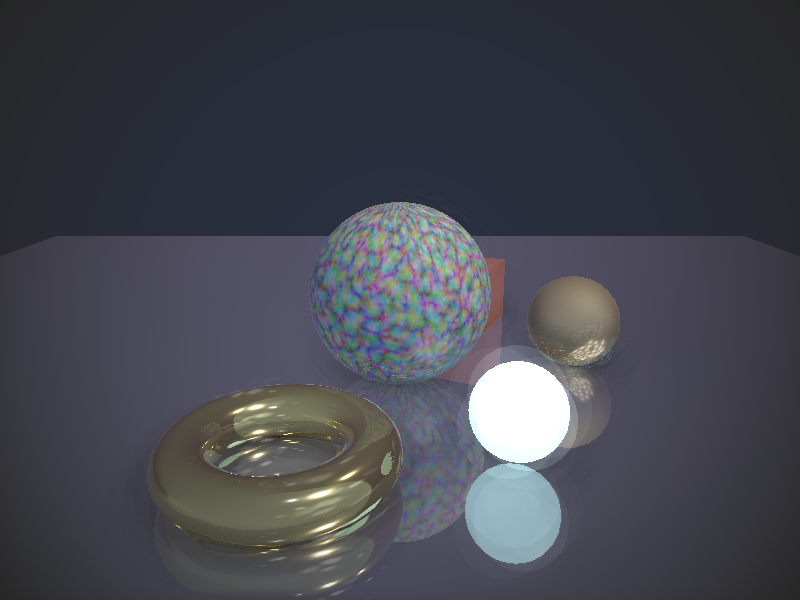
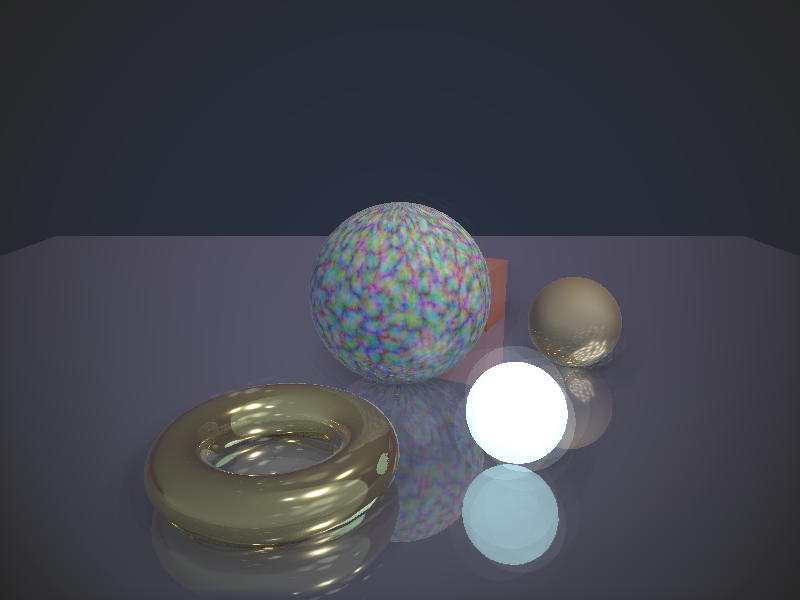
fix(scene): make the two backends agree on culling and G-buffer clears
Cull mode diverged in both directions. The WebGPU MRT pipeline set no cullMode
at all, so it defaulted to 'none'; WebGL2 enables CULL_FACE and culls back
faces. Every G-buffer fill is MRT, so the entire scene was single-sided on one
backend and double-sided on the other — which changes the normals written to
the G-buffer, and so SSAO, SSR and the lit result downstream. Meanwhile the
single-output 3D pipeline hardcoded cullMode 'back' and ignored pass.cullMode
entirely, so a pass asking for 'none' was honoured on WebGL2 and silently
ignored on WebGPU.

Both WebGPU paths now derive primitive state from one exported helper, and
mesh passes state their cull mode explicitly rather than relying on a default
the two backends spell differently. The helper keeps frontFace 'cw', which is
the subtle part: the WGSL mesh vertex shader flips clip-space Y, reversing
triangle winding in framebuffer space, so 'cw' is the WebGPU spelling of
WebGL2's frontFace(CCW). Setting cullMode 'back' with the default 'ccw' would
have culled exactly the faces meant to be kept. Both pipeline cache keys now
include the cull mode, so pipelines are not cross-reused between modes.

The zero-mesh G-buffer clears were not clears. All three submitted a fullscreen
triangle with scene_present — a single @location(0) program — against
drawBuffers: 4. WebGPU rejects that pipeline at interface matching, taking the
whole command buffer with it. WebGL2 accepts it and writes only attachment 0,
[…]

diff --git a/shaders/src/runtime/backends/webgpu.js b/shaders/src/runtime/backends/webgpu.js
@@ -45,6 +45,23 @@ function float16ToFloat32(h) {
     return (sign ? -1 : 1) * f * Math.pow(2, exponent - 15)
 }
 
+/**
+ * Translate a pass's cull mode into WebGPU primitive state.
+ *
+ * WebGL2 culls with frontFace(CCW) + cullFace(BACK) on unflipped geometry. The
+ * WGSL mesh vertex shader flips clip-space Y, which reverses triangle winding
+ * in framebuffer space, so 'cw' is the WebGPU spelling of WebGL2's CCW. Every
+ * pipeline path derives its state here so the two backends cannot drift: the
+ * MRT path previously set no cullMode at all (silently double-sided) while the
+ * single-output 3D path hardcoded 'back' and ignored the pass entirely.
+ * @param {string|undefined} cullMode - 'none' | 'front' | 'back' | undefined
+ * @returns {{cullMode: string, frontFace?: string}} WebGPU primitive state
+ */
+export function resolveCullState(cullMode) {
+    if (cullMode === 'none') return { cullMode: 'none' }
+    return { cullMode: cullMode === 'front' ? 'front' : 'back', frontFace: 'cw' }
+}
+
 export class WebGPUBackend extends Backend {
     constructor(device, context) {
         super(device)
@@ -1869,7 +1886,8 @@ export class WebGPUBackend extends Backend {
 
             pipeline = this.resolve3DRenderPipeline(program, {
                 blend: pass.blend,
-                format: resolvedFormat
+                format: resolvedFormat,
+                cullMode: pass.cullMode
             })
         } else {
             // Standard 2D rendering
@@ -1971,7 +1989,8 @@ export class WebGPUBackend extends Backend {
             blend: pass.blend,
             topology: (pass.drawMode === 'points') ? 'point-list' : 'triangle-list',
             formats,
-            depth: isMRT3D
+            depth: isMRT3D,
+            cullMode: pass.cullMode
         })
 
         // Begin render pass with multiple color attachments
@@ -2022,8 +2041,8 @@ export class WebGPUBackend extends Backend {
     /**
      * Get or create a render pipeline with multiple render targets
      */
-    resolveMRTRenderPipeline(program, { blend, topology, formats, depth = false }) {
-        const key = `mrt_${topology || 'triangle-list'}_${formats.join('_')}_${blend ? JSON.stringify(blend) : 'noblend'}_${depth ? 'depth' : 'nodepth'}`
+    resolveMRTRenderPipeline(program, { blend, topology, formats, depth = false, cullMode }) {
+        const key = `mrt_${topology || 'triangle-list'}_${formats.join('_')}_${blend ? JSON.stringify(blend) : 'noblend'}_${depth ? 'depth' : 'nodepth'}_${cullMode || 'back'}`
 
         if (!program.pipelineCache.has(key)) {
             // Build targets array for all outputs
@@ -2044,7 +2063,8 @@ export class WebGPUBackend extends Backend {
                     targets
                 },
                 primitive: {
-                    topology: topology || 'triangle-list'
+                    topology: topology || 'triangle-list',
+                    ...resolveCullState(cullMode)
                 }
             }
             if (depth) {
@@ -2086,8 +2106,8 @@ export class WebGPUBackend extends Backend {
     /**
      * Get or create a render pipeline for 3D mesh rendering with depth test and back-face culling.
      */
-    resolve3DRenderPipeline(program, { blend, format }) {
-        const key = `3d|${format || 'rgba16float'}|${blend ? JSON.stringify(blend) : 'noblend'}`
+    resolve3DRenderPipeline(program, { blend, format, cullMode }) {
+        const key = `3d|${format || 'rgba16float'}|${blend ? JSON.stringify(blend) : 'noblend'}|${cullMode || 'back'}`
 
         if (!program.pipelineCache.has(key)) {
             const pipeline = this.device.createRenderPipeline({
@@ -2106,9 +2126,7 @@ export class WebGPUBackend extends Backend {
                 },
                 primitive: {
                     topology: 'triangle-list',
-                    cullMode: 'back',
-                    // 'cw' because WGSL shader flips Y which reverses winding order
-                    frontFace: 'cw'
+                    ...resolveCullState(cullMode)
                 },
                 depthStencil: {
                     format: 'depth24plus',

diff --git a/shaders/tests/test_scene_renderer.js b/shaders/tests/test_scene_renderer.js
@@ -28,6 +28,8 @@ function stubBackend() {
       this.cubeTextureSpecs.set(id, spec)
     },
     destroyTexture(id) { this.textures.delete(id) },
+    clearedTextures: [],
+    clearTexture(id) { this.clearedTextures.push(id) },
     async compileProgram(id) { this.programs.add(id) },
     executePass(pass, state) { this.passes.push(pass); this.lastFrameState = state },
     beginFrame() { this.frames++ },
@@ -806,6 +808,63 @@ function treeWithLights(lights, settings = {}) {
   const lighting = backend.passes.find(p => p.id === 'scene_lighting')
   assert.strictEqual(lighting.uniforms.u_envIntensity, 0, 'no env -> intensity 0')
   assert.strictEqual(lighting.inputs.u_envTexture, 'scene_albedo_fallback', 'fallback bound for the declaration')
+}
+
+// No pass may declare more draw buffers than its program writes outputs.
+//
+// The zero-mesh G-buffer clears drew a fullscreen triangle with scene_present,
+// which declares a single @location(0) output, against drawBuffers: 4. WebGPU
+// rejects that pipeline outright at interface-matching; WebGL2 accepts it and
+// leaves attachments 1-3 undefined rather than cleared, so the lighting pass
+// then reads garbage normals and positions.
+{
+  const FRAGMENT_OUTPUTS = { scene_present: 1, scene_tonemap: 1 }
+  const backend = stubBackend()
+  const renderer = new SceneRenderer(backend, null)
+  await renderer.initialize(320, 240)
+
+  // A scene with lights but no meshes takes every zero-mesh clear path.
+  const tree = treeWithLights([{ type: 'directional', direction: [0, -1, 0], color: [1, 1, 1], intensity: 1 }])
+  tree.getMeshNodes = () => []
+  await renderer.render(tree, { elapsed: 0 }, 'scene_color')
+
+  for (const pass of backend.passes) {
+    const outputs = FRAGMENT_OUTPUTS[pass.program]
+    if (outputs === undefined) continue
+    const declared = pass.drawBuffers ?? 1
+    assert.ok(declared <= outputs,
+      `pass '${pass.id}' declares drawBuffers: ${declared} but program '${pass.program}' writes ${outputs} output(s)`)
+  }
+
+  // And the G-buffer is genuinely cleared rather than partly overwritten.
+  assert.ok(backend.clearedTextures.length >= 4,
+    `expected the four G-buffer targets to be cleared, got ${JSON.stringify(backend.clearedTextures)}`)
+}
+
+// Mesh passes state their cull mode explicitly.
+//
+// Left undefined, the two backends disagree by default: WebGL2 enables
+// CULL_FACE and culls back faces, while the WebGPU MRT pipeline sets no
+// cullMode at all and so renders double-sided. Every G-buffer fill is MRT, so
+// the whole scene was single-sided on one backend and double-sided on the
+// other, which changes normals, SSAO and reflections downstream.
+{
+  const backend = stubBackend()
+  const renderer = new SceneRenderer(backend, null)
+  await renderer.initialize(320, 240)
+  const tree = SceneTree.fromIR({
+    camera: { fov: 60, near: 0.1, far: 100, position: [0, 0, 5], target: [0, 0, 0] },
+    lights: [{ type: 'directional', direction: [0, -1, 0], color: [1, 1, 1], intensity: 1 }],
+    materials: [],
+    settings: {},
+    nodes: [{ id: 'n0', type: 'mesh', meshType: 'box', meshParams: {}, transform: {}, children: [], parent: null }]
+  })
+  await renderer.render(tree, { elapsed: 0 }, 'scene_color')
+  const meshPass = backend.passes.find(p => p.program === 'scene_mesh_gbuf')
+  assert.ok(meshPass, 'a mesh G-buffer pass was submitted')
+  assert.ok(meshPass.cullMode !== undefined,
+    'mesh passes must state cullMode explicitly so both backends agree')
+  assert.strictEqual(meshPass.cullMode, 'back', 'default matches WebGL2 back-face culling')
 }
 
 console.log('Scene renderer tests passed')

diff --git a/shaders/src/rendering/scene-renderer.js b/shaders/src/rendering/scene-renderer.js
@@ -55,6 +55,24 @@ const PROBE_GBUF_TEXTURES = [
   { id: 'scene_probe_gbuf_depth', format: 'r32f' }
 ]
 
+/**
+ * Zero the four targets of a G-buffer.
+ *
+ * Not a draw. The previous form submitted a fullscreen triangle with
+ * scene_present — a single-output program — against drawBuffers: 4. WebGPU
+ * rejects that pipeline at interface matching, and WebGL2 accepts it but writes
+ * only attachment 0, leaving normals, positions and depth undefined rather than
+ * cleared. clearTexture zeroes each target directly and behaves the same on
+ * both backends, which is also what the `depth <= 0` no-hit sentinel expects.
+ * @param {object} backend - Active render backend
+ * @param {object} outputs - colorN -> texture id map for the G-buffer
+ */
+function clearGBuffer(backend, outputs) {
+  for (const id of Object.values(outputs)) {
+    backend.clearTexture(id)
+  }
+}
+
 const PROBE_GBUF_OUTPUTS = Object.freeze({
   color0: 'scene_probe_gbuf_albedo_metallic',
   color1: 'scene_probe_gbuf_normal_roughness',
@@ -307,20 +325,12 @@ export class SceneRenderer {
 
     // If no meshes, clear the G-buffer
     if (meshPasses.length === 0) {
-      this.backend.executePass({
-        id: 'scene_gbuf_clear',
-        program: 'scene_present',
-        inputs: {},
-        outputs: {
-          color0: 'scene_gbuf_albedo_metallic',
-          color1: 'scene_gbuf_normal_roughness',
-          color2: 'scene_gbuf_position_emission',
-          color3: 'scene_gbuf_depth'
-        },
-        drawBuffers: 4,
-        clear: true,
-        uniforms: {}
-      }, frameState)
+      clearGBuffer(this.backend, {
+        color0: 'scene_gbuf_albedo_metallic',
+        color1: 'scene_gbuf_normal_roughness',
+        color2: 'scene_gbuf_position_emission',
+        color3: 'scene_gbuf_depth'
+      })
     }
 
     // A planar reflector is a second view of the scene, not a screen-space
@@ -346,15 +356,7 @@ export class SceneRenderer {
         this.backend.executePass(pass, frameState)
       }
       if (planarMeshPasses.length === 0) {
-        this.backend.executePass({
-          id: 'scene_planar_gbuf_clear',
-          program: 'scene_present',
-          inputs: {},
-          outputs: PLANAR_GBUF_OUTPUTS,
-          drawBuffers: 4,
-          clear: true,
-          uniforms: {}
-        }, frameState)
+        clearGBuffer(this.backend, PLANAR_GBUF_OUTPUTS)
       }
     }
 
@@ -558,15 +560,7 @@ export class SceneRenderer {
       )
       for (const pass of meshPasses) this.backend.executePass(pass, frameState)
       if (meshPasses.length === 0) {
-        this.backend.executePass({
-          id: `scene_probe_gbuf_clear_face_${face}`,
-          program: 'scene_present',
-          inputs: {},
-          outputs: PROBE_GBUF_OUTPUTS,
-          drawBuffers: 4,
-          clear: true,
-          uniforms: {}
-        }, frameState)
+        clearGBuffer(this.backend, PROBE_GBUF_OUTPUTS)
       }
 
       this.backend.executePass({

diff --git a/shaders/tests/test_webgpu_binding_parser.js b/shaders/tests/test_webgpu_binding_parser.js
@@ -137,3 +137,32 @@ fn main(@builtin(global_invocation_id) id: vec3<u32>) {
         throw new Error(`live compute bindings were not preserved: ${names.join(', ')}`)
     }
 })
+
+// ---------------------------------------------------------------------------
+// Cull state must be derived from the pass, identically on every WebGPU
+// pipeline path, and must correspond to what WebGL2 does.
+//
+// WebGL2 culls with frontFace(CCW) on unflipped geometry. The WGSL mesh vertex
+// shader flips clip-space Y, which reverses triangle winding in framebuffer
+// space, so 'cw' is the WebGPU spelling of the same thing. Getting this wrong
+// culls exactly the faces that should be kept.
+// ---------------------------------------------------------------------------
+
+import { resolveCullState } from '../src/runtime/backends/webgpu.js'
+
+test('cull state defaults to back-face culling, matching WebGL2', () => {
+    const state = resolveCullState(undefined)
+    if (state.cullMode !== 'back') throw new Error(`expected cullMode 'back', got '${state.cullMode}'`)
+    if (state.frontFace !== 'cw') throw new Error(`expected frontFace 'cw' for the Y-flipped mesh shader, got '${state.frontFace}'`)
+})
+
+test('cull state honours an explicit none', () => {
+    const state = resolveCullState('none')
+    if (state.cullMode !== 'none') throw new Error(`expected cullMode 'none', got '${state.cullMode}'`)
+})
+
+test('cull state honours an explicit front', () => {
+    const state = resolveCullState('front')
+    if (state.cullMode !== 'front') throw new Error(`expected cullMode 'front', got '${state.cullMode}'`)
+    if (state.frontFace !== 'cw') throw new Error(`expected frontFace 'cw', got '${state.frontFace}'`)
+})

diff --git a/shaders/tests/test_visual_playwright.js b/shaders/tests/test_visual_playwright.js
@@ -735,11 +735,14 @@ async function testMaterialsLabOscillatorAnimation(browser, port) {
       }
     }
 
-    const rotation = await page.evaluate(() => {
+    const rotation = await page.evaluate(async () => {
       const renderer = window.__noisemakerCanvasRenderer
       renderer.stop()
       renderer._clock.reset()
-      renderer.render(0)
+      // render() is awaited: the scene must finish drawing before the pipeline
+      // reads its texture, so animation bindings are applied inside that
+      // promise rather than synchronously on the way in.
+      await renderer.render(0)
       const spinner = renderer._sceneTree.getById('spinner')
       const sceneMeshes = renderer._sceneTree.getMeshNodes()
         .filter(mesh => !mesh.planarReflection)
@@ -747,7 +750,7 @@ async function testMaterialsLabOscillatorAnimation(browser, port) {
         .filter(mesh => mesh.parent !== spinner)
         .map(mesh => mesh.meshType)
       const start = spinner.rotation[1]
-      renderer.render(0.25)
+      await renderer.render(0.25)
       const quarterLoop = spinner.rotation[1]
       return {
         start,

diff --git a/shaders/src/rendering/mesh-renderer.js b/shaders/src/rendering/mesh-renderer.js
@@ -146,7 +146,10 @@ export class MeshRenderer {
         id: passId,
         program: 'scene_mesh_gbuf',
         drawMode: 'triangles',
-        cullMode: opts.cullMode,
+        // Stated explicitly rather than left undefined: the backends disagree
+        // on the default. WebGL2 enables CULL_FACE and culls back faces; the
+        // WebGPU MRT pipeline sets none, rendering double-sided.
+        cullMode: opts.cullMode ?? 'back',
         count: handle.vertexCount,
         inputs,
         outputs,
